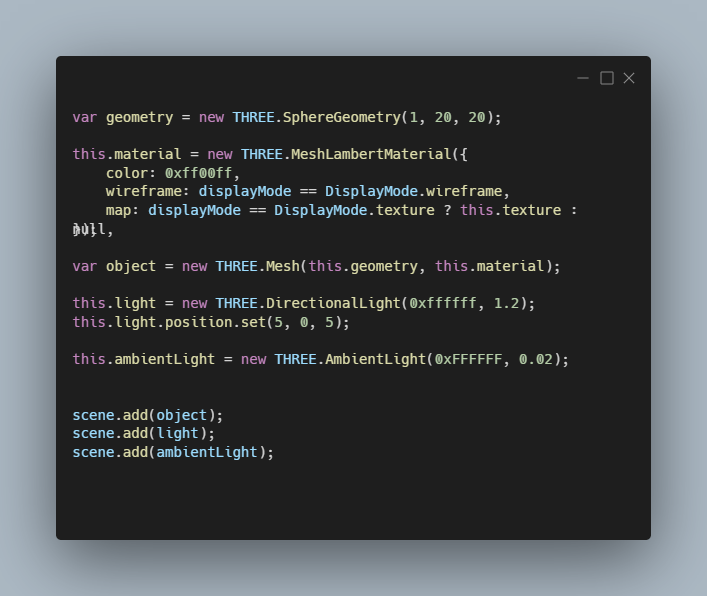
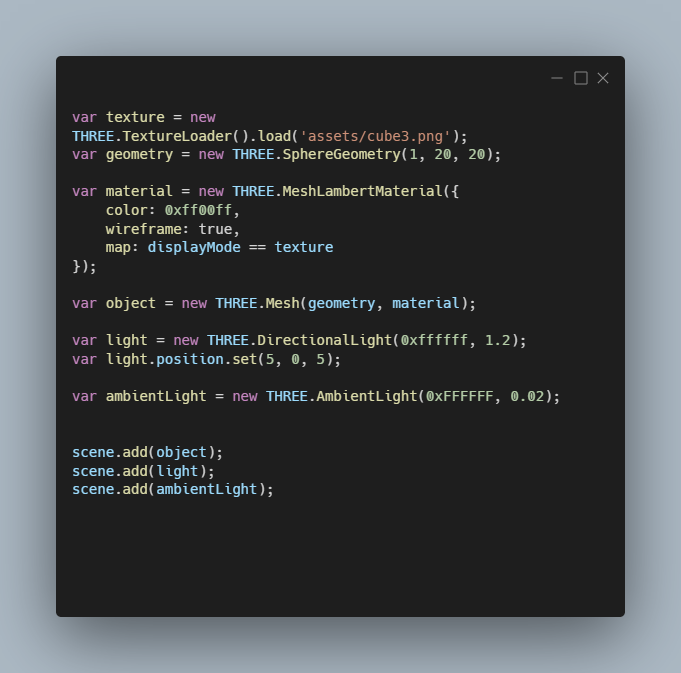
Image update

diff --git a/main.js b/main.js
@@ -50,8 +50,12 @@ class DisplayMode {
 class Cylinder {
 
     constructor() {
+        this.texture = new THREE.TextureLoader().load(
+            'assets/cube3.png'
+        );
         
     }
+
     build(displayMode) {
 
         console.log(displayMode);
@@ -132,6 +136,11 @@ class Cylinder {
 class Cone {
 
     constructor() {
+
+        this.texture = new THREE.TextureLoader().load(
+            'assets/cube3.png'
+        );
+
     }
 
     build(displayMode) {
